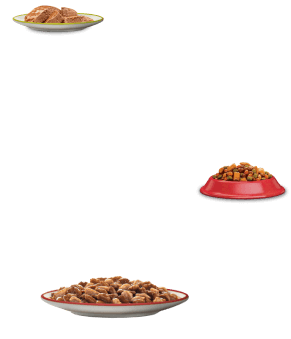
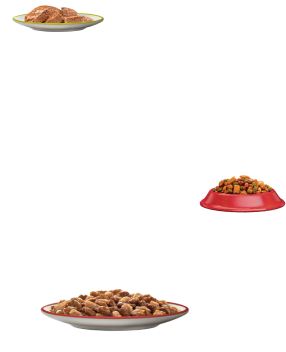
fix

Changed region(s): [[0.1399, 0.7965, 0.6713, 0.944], [0.6713, 0.472, 1.0, 0.6195], [0.028, 0.0, 0.3636, 0.118]]

diff --git a/css/style.css b/css/style.css
@@ -722,7 +722,7 @@ body {
 }
 .top .food {
     bottom: auto;
-    top: 136px;
+    top: 142px;
 }
 
 .select-action  {
@@ -769,7 +769,7 @@ body {
 .food-cats {
     position: fixed;
     right: -160px;
-    bottom: 290px;
+    bottom: 284px;
 }
 .food {
     position: fixed;
